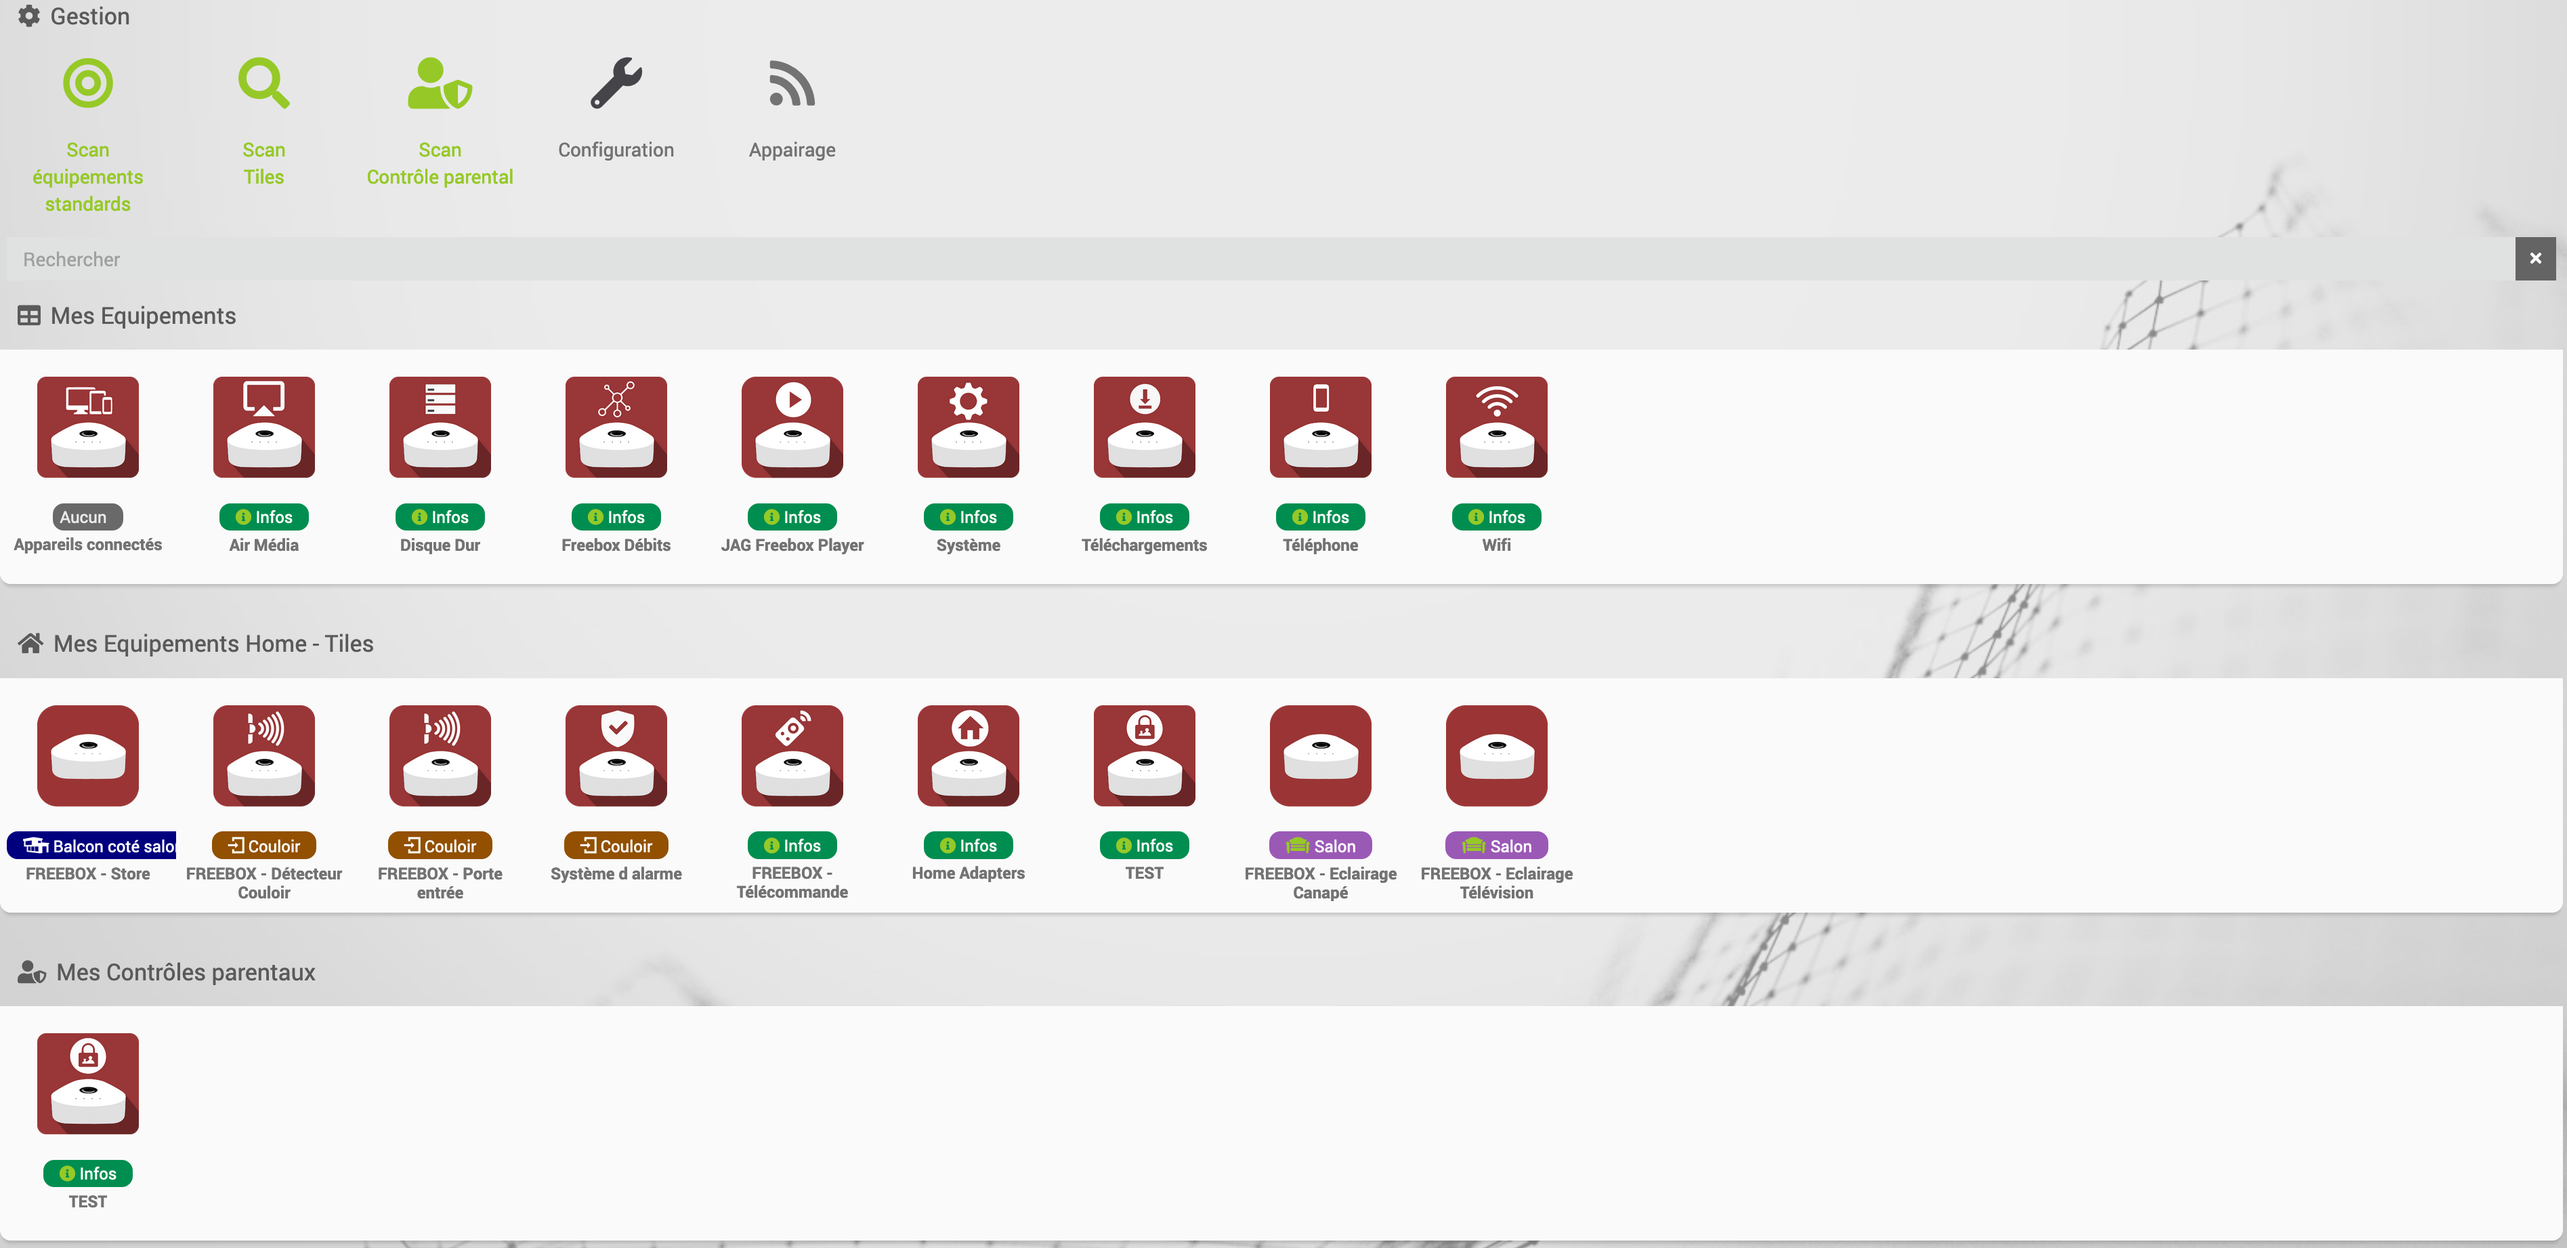
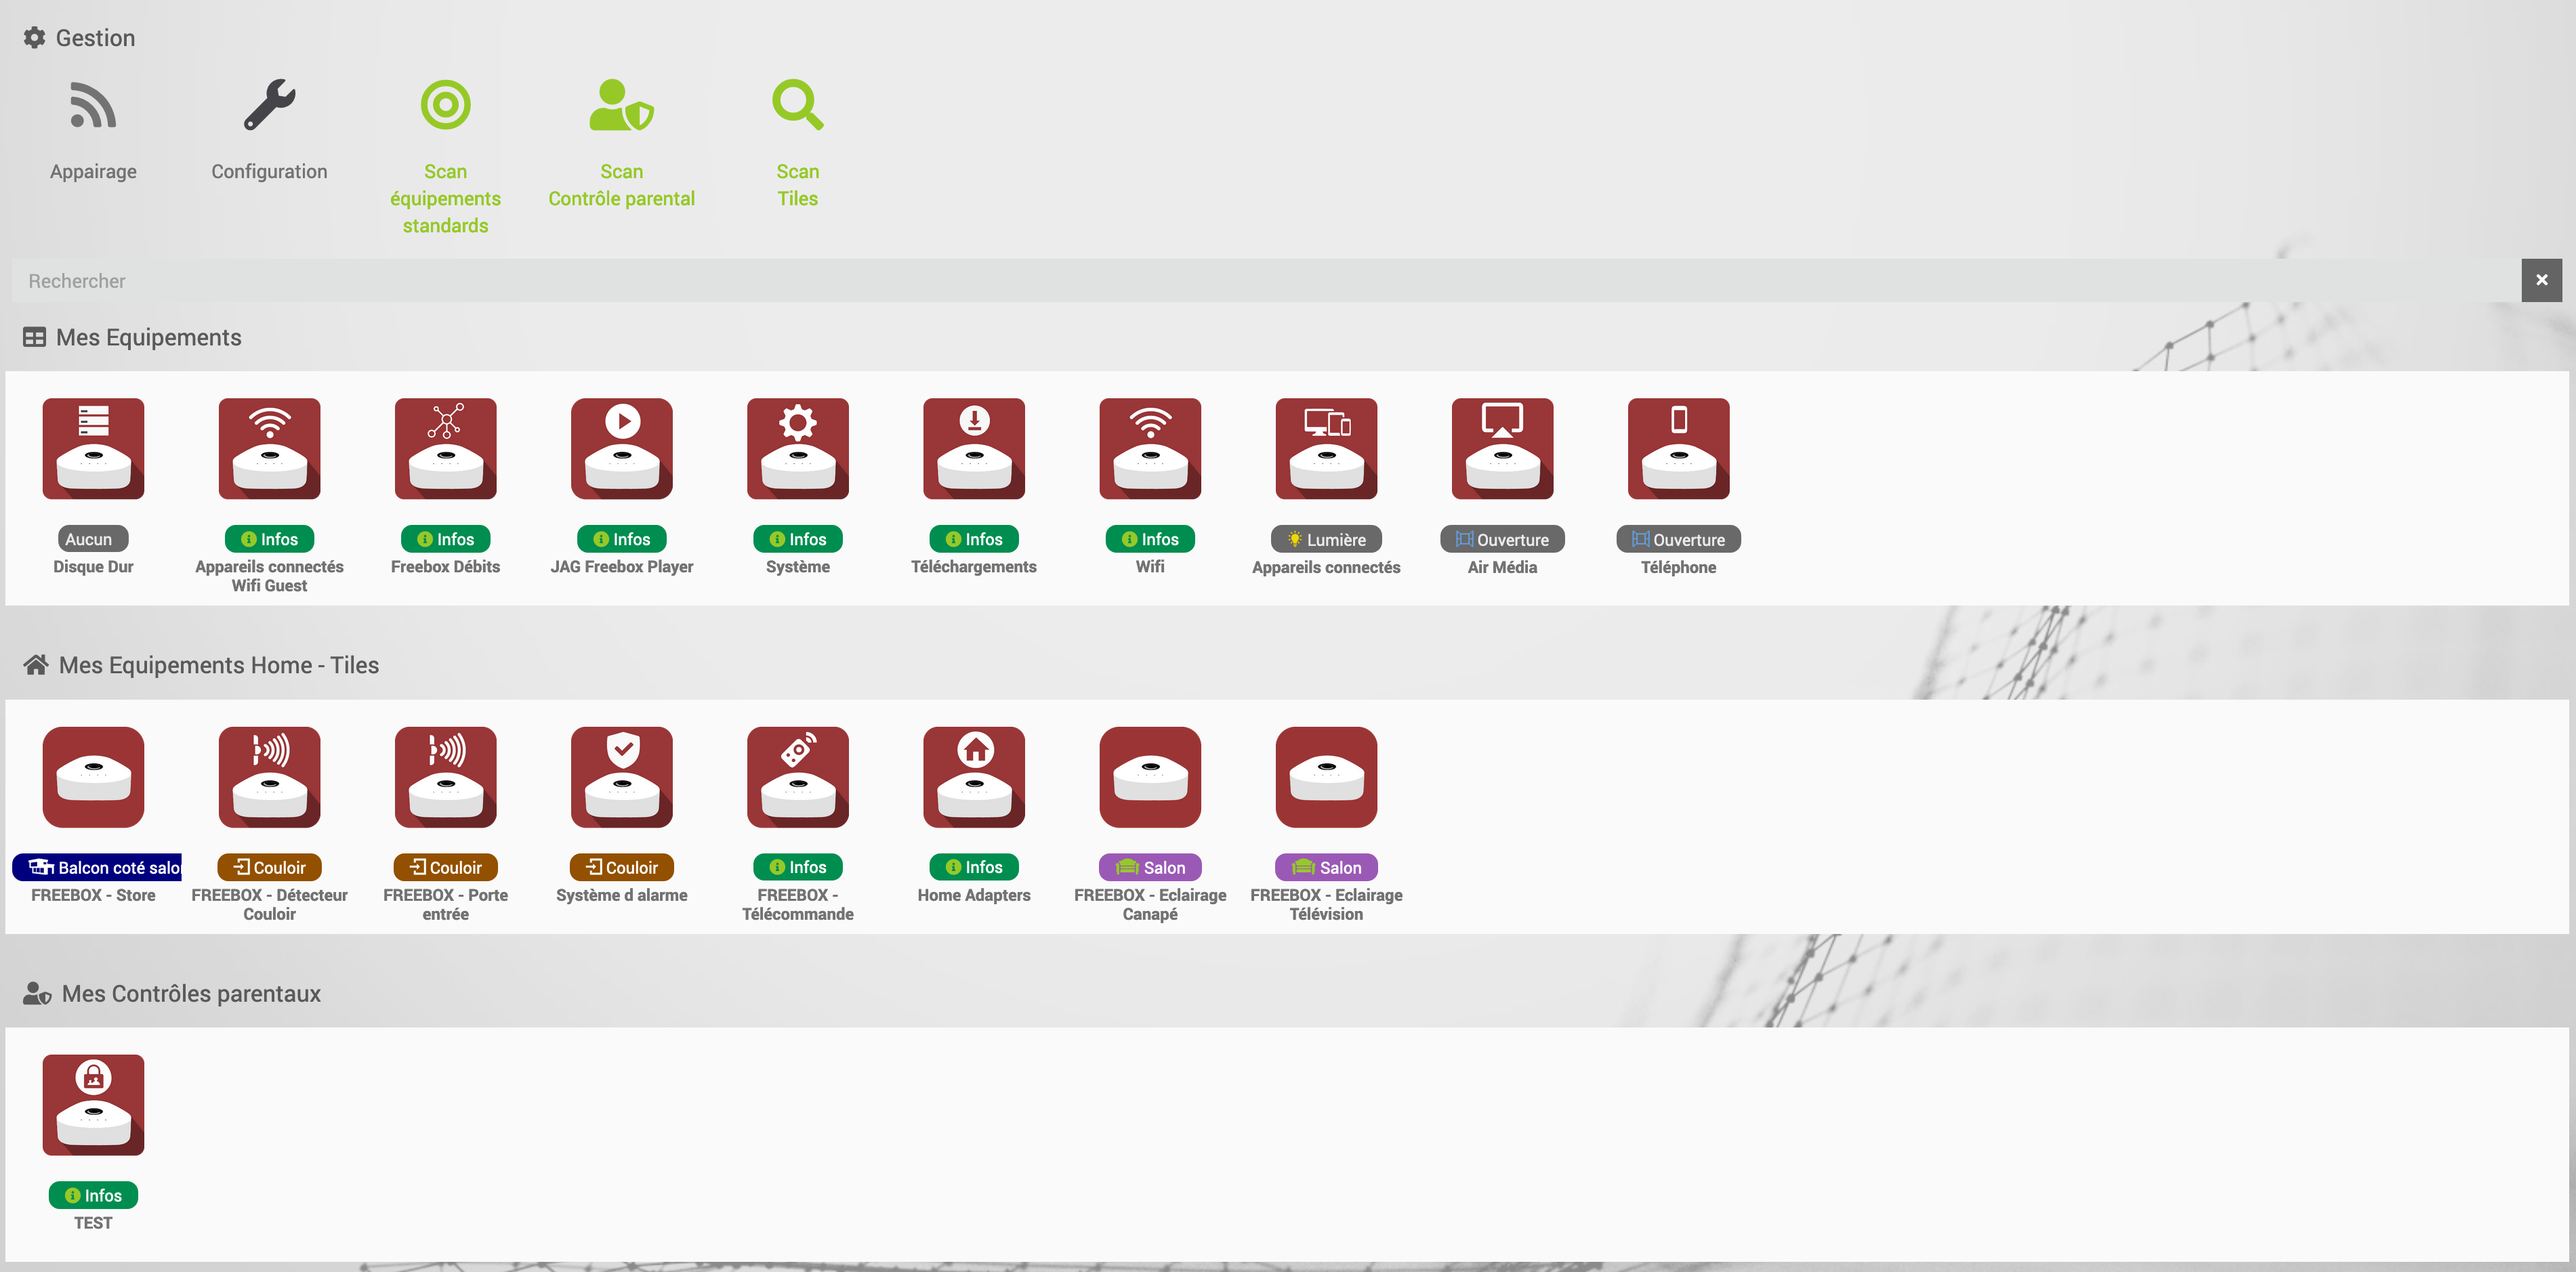
Regroupement de l'affichage Ipv Mise à jour screenshot

diff --git a/desktop/js/Freebox_OS.js b/desktop/js/Freebox_OS.js
@@ -196,11 +196,13 @@ $('.eqLogicAttr[data-l1key=configuration][data-l2key=logicalID]').on('change', f
 	var template = $('.eqLogicAttr[data-l1key=logicalId]').val();
 
 	if (template === 'network' || template === 'networkwifiguest') {
-		$('.IPV6').show();
-		$('.IPV4').show();
+		//$('.IPV6').show();
+		//$('.IPV4').show();
+		$('.IPV').show();
 	} else {
-		$('.IPV6').hide();
-		$('.IPV4').hide();
+		//$('.IPV6').hide();
+		//$('.IPV4').hide();
+		$('.IPV').hide();
 	}
 });
 

diff --git a/desktop/php/Freebox_OS.php b/desktop/php/Freebox_OS.php
@@ -279,23 +279,15 @@ $eqLogics = eqLogic::byType($plugin->getId());
 				<legend><i class="fas fa-cog"></i> {{Paramètres}}</legend>
 				<form class="form-horizontal col-sm-10">
 					<fieldset>
-						<div class="form-group IPV4">
+						<div class="form-group IPV">
 							<label class="col-sm-2 control-label">{{Affichage IP sur le widget}}
-								<sup><i class="fas fa-question-circle" title="{{Si la case est cochée cela affiche l'IPv4 our l'IPv6sur le widget}}"></i></sup>
+								<sup><i class="fas fa-question-circle" title="{{Si la case est cochée cela affiche l'IPv4 our l'IPv6 sur le widget}}"></i></sup>
 							</label>
 							<div class="col-sm-3">
 								<label class="checkbox-inline"><input type="checkbox" class="eqLogicAttr" data-l1key="configuration" data-l2key="IPV4" />{{IPv4}}</label>
+								<label class="checkbox-inline"><input type="checkbox" class="eqLogicAttr" data-l1key="configuration" data-l2key="IPV6" />{{IPv6}}</label>
 							</div>
 						</div>
-						<div class="form-group IPV6">
-							<label class="col-sm-2 control-label">{{Affichage IPv6 sur le widget}}
-								<sup><i class="fas fa-question-circle" title="{{Si la case est cochée cela affiche l'IPv6 sur le widget}}"></i></sup>
-							</label>
-							<div class="col-sm-3">
-								<label class="checkbox-inline"><input type="checkbox" class="eqLogicAttr" data-l1key="configuration" data-l2key="IPV6" /></label>
-							</div>
-						</div>
-						</br>
 						<div class="form-group">
 							<label class="col-sm-2 control-label">{{Temps de rafraichissement (cron)}}
 								<sup><i class="fas fa-question-circle" title="{{Cron }}"></i></sup>
